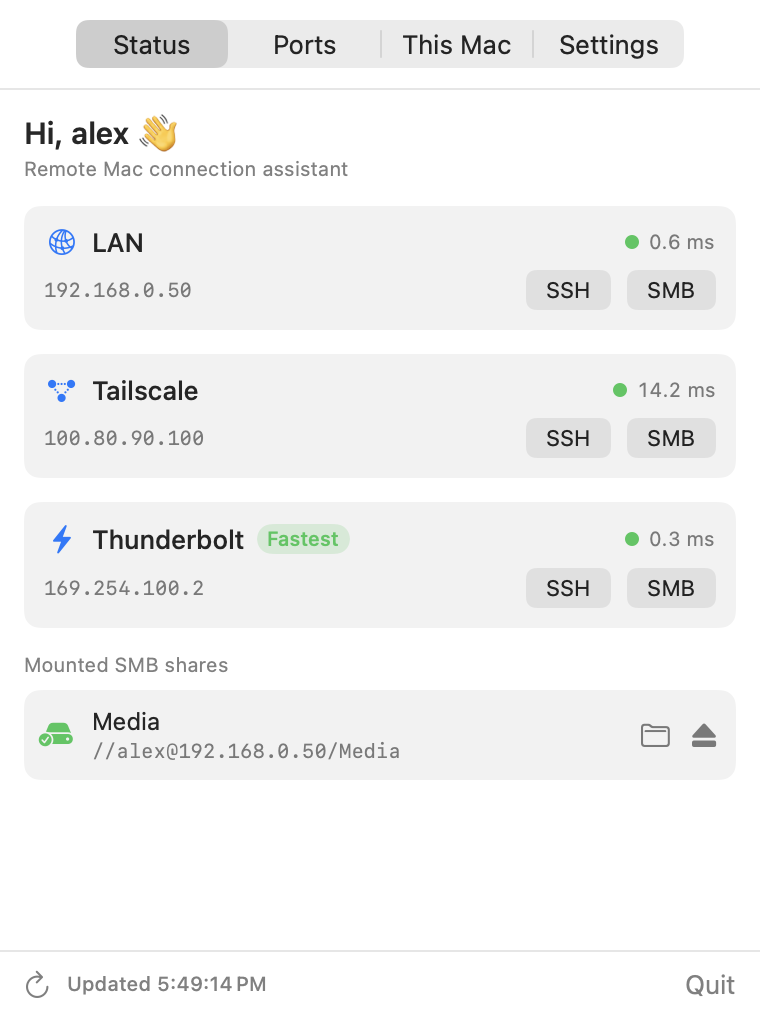
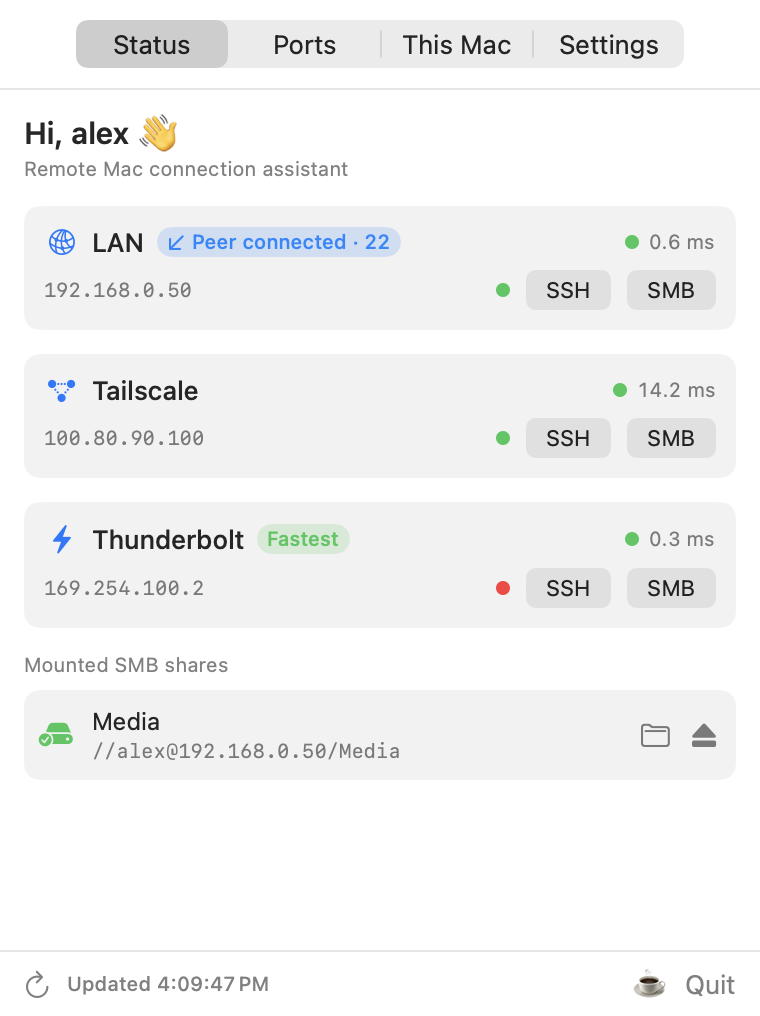
MiniLink 1.2.0 — auto-accept SSH host keys, per-route SSH status & inbound view
SSH: launch ssh with StrictHostKeyChecking=accept-new and a shared
HostKeyAlias (minilink-remote), so every route (LAN / Tailscale /
Thunderbolt) to the same Mac validates against one host key. No more
re-typing "yes" in Terminal after a DHCP IP change or when using a new
route. Also adds ConnectTimeout so a dead route fails fast.

Status: each route now shows whether SSH (port 22) is actually up
(green/red dot), plus a "peer connected" badge when the remote — or
anyone — has an inbound connection to this Mac, tagged to the route it
came in on. Inbound is detected from a single netstat pass that keeps
only foreign peers connected to a local listening port (so it does not
mistake our own outbound SSH for an inbound session).

Bump version to 1.2.0 (build 3); refresh the demo snapshot data to show
the new SSH dots and peer badge.

diff --git a/Sources/MiniLink/Monitor.swift b/Sources/MiniLink/Monitor.swift
@@ -84,6 +84,35 @@ func currentSMBMounts() async -> [MountedShare] {
     }
 }
 
+/// 检测「对方连着我」的入站连接。一次 netstat 同时拿本机监听端口和建立态连接，
+/// 只保留「对方连到本机某个监听端口」的连接——这样能区分「对方连我」与「我连对方」
+/// （我主动外连时本机端口是临时端口，不在监听集合里，会被排除）。
+/// 返回：对方 IP -> 该 IP 连到本机的监听端口列表（升序）。
+func establishedInbound() async -> [String: [Int]] {
+    let (_, out) = await runProcess("/usr/sbin/netstat", ["-an", "-p", "tcp"])
+    var listen = Set<Int>()
+    var estab: [(fip: String, lport: Int)] = []
+    for line in out.split(separator: "\n") where line.hasPrefix("tcp") {
+        let cols = line.split(separator: " ", omittingEmptySubsequences: true)
+        guard cols.count >= 4 else { continue }
+        let local = String(cols[3]) // 本机 ip.port，如 192.168.1.50.22 或 *.22
+        guard let d = local.lastIndex(of: "."),
+              let lport = Int(local[local.index(after: d)...]) else { continue }
+        if line.contains("LISTEN") {
+            listen.insert(lport)
+        } else if line.contains("ESTABLISHED"), cols.count >= 5 {
+            let foreign = String(cols[4]) // 对方 ip.port
+            guard let fd = foreign.lastIndex(of: ".") else { continue }
+            estab.append((String(foreign[..<fd]), lport))
+        }
+    }
+    var map: [String: Set<Int>] = [:]
+    for e in estab where listen.contains(e.lport) {
+        map[e.fip, default: []].insert(e.lport)
+    }
+    return map.mapValues { $0.sorted() }
+}
+
 // MARK: - mini 状态监测
 
 @MainActor
@@ -140,16 +169,23 @@ final class StatusMonitor {
     func refreshAll() async {
         guard !frozen else { return }
         let routes = settings.routes
+        // 与逐路由探测并发跑一次 netstat，拿到所有入站连接
+        async let inboundMap = establishedInbound()
         var newStatus: [UUID: RouteStatus] = [:]
         await withTaskGroup(of: (UUID, RouteStatus).self) { group in
             for r in routes {
                 group.addTask {
-                    let st = await pingHost(r.ip)
+                    async let ping = pingHost(r.ip)
+                    async let ssh = probePort(host: r.ip, port: 22) // SSH 是否通
+                    var st = await ping
+                    st.sshOpen = await ssh
                     return (r.id, st)
                 }
             }
             for await (id, st) in group { newStatus[id] = st }
         }
+        let inbound = await inboundMap
+        for r in routes { newStatus[r.id]?.inboundPorts = inbound[r.ip] ?? [] }
         routeStatus = newStatus
 
         if let host = bestRoute?.ip {

diff --git a/Sources/MiniLink/Views/MainView.swift b/Sources/MiniLink/Views/MainView.swift
@@ -139,6 +139,9 @@ struct StatusTab: View {
                         .background(Capsule().fill(Color.green.opacity(0.18)))
                         .foregroundStyle(.green)
                 }
+                if let ports = st?.inboundPorts, !ports.isEmpty {
+                    peerBadge(ports)
+                }
                 Spacer()
                 statusView(st)
             }
@@ -148,6 +151,7 @@ struct StatusTab: View {
                     .foregroundStyle(.secondary)
                     .textSelection(.enabled)
                 Spacer()
+                sshDot(st?.sshOpen)
                 Button("SSH") { sshTapped(route) }
                     .controlSize(.small)
                     .disabled(!reachable)
@@ -158,6 +162,33 @@ struct StatusTab: View {
         }
         .padding(10)
         .background(RoundedRectangle(cornerRadius: 8).fill(.quaternary.opacity(0.5)))
+    }
+
+    /// SSH（22 端口）可达指示点：绿=通、红=不通、灰=未探测。紧挨 SSH 按钮，作其状态注解。
+    private func sshDot(_ open: Bool?) -> some View {
+        let color: Color = open == nil ? Color.secondary.opacity(0.4) : (open! ? .green : .red)
+        let help = open == false ? settings.t("status.sshUnreachable") : settings.t("status.sshReachable")
+        return Circle()
+            .fill(color)
+            .frame(width: 7, height: 7)
+            .help(open == nil ? "" : help)
+    }
+
+    /// 「对方在连」徽章：对方（此路由 IP）正连着本机的监听端口。徽章显示端口号，
+    /// 悬停提示给出服务名。出现在哪条路由卡上，就说明对方走的是哪条路径。
+    private func peerBadge(_ ports: [Int]) -> some View {
+        let portsText = ports.map(String.init).joined(separator: ", ")
+        let services = ports.map { settings.portLabel($0) ?? "\($0)" }.joined(separator: ", ")
+        return HStack(spacing: 3) {
+            Image(systemName: "arrow.down.left")
+            Text("\(settings.t("status.peerConnected")) · \(portsText)")
+        }
+        .font(.caption2)
+        .padding(.horizontal, 5)
+        .padding(.vertical, 1)
+        .background(Capsule().fill(Color.blue.opacity(0.18)))
+        .foregroundStyle(.blue)
+        .help(settings.f("status.peerConnectedHelp", services))
     }
 
     private func statusView(_ st: RouteStatus?) -> some View {

diff --git a/Sources/MiniLink/L10n.swift b/Sources/MiniLink/L10n.swift
@@ -30,6 +30,10 @@ enum L10n {
         "status.eject": "Eject",
         "status.ejectFailed": "Eject failed: %@",
         "status.terminalFailed": "Could not open Terminal: %@",
+        "status.sshReachable": "SSH reachable (port 22 open)",
+        "status.sshUnreachable": "SSH not responding (port 22 closed)",
+        "status.peerConnected": "Peer connected",
+        "status.peerConnectedHelp": "The remote is connected to your: %@",
 
         "ports.title": "Remote port monitor",
         "ports.via": "via %@",
@@ -101,6 +105,10 @@ enum L10n {
         "status.eject": "弹出",
         "status.ejectFailed": "弹出失败：%@",
         "status.terminalFailed": "无法打开终端：%@",
+        "status.sshReachable": "SSH 可连（22 端口开放）",
+        "status.sshUnreachable": "SSH 未响应（22 端口不通）",
+        "status.peerConnected": "对方在连",
+        "status.peerConnectedHelp": "对方正连接你的：%@",
 
         "ports.title": "远程端口监测",
         "ports.via": "经由 %@",

diff --git a/Sources/MiniLink/Actions.swift b/Sources/MiniLink/Actions.swift
@@ -2,9 +2,16 @@ import AppKit
 
 @MainActor
 enum Actions {
+    /// 所有路由都是同一台远程 Mac，host key 其实相同。用固定 HostKeyAlias 让它们
+    /// 共用同一条 known_hosts 记录：接受一次后，无论走哪条路由、IP 怎么变都不再问。
+    private static let hostKeyAlias = "minilink-remote"
+
     /// 打开终端执行 ssh。返回错误信息，成功返回 nil。
     static func openSSH(username: String, ip: String) -> String? {
-        let cmd = "ssh \(username)@\(ip)"
+        // accept-new：首次/换 IP 自动信任、不再弹 yes（密钥“真的变了”仍会拦截告警）
+        // ConnectTimeout：掉线路由快速失败，不卡住
+        let opts = "-o StrictHostKeyChecking=accept-new -o ConnectTimeout=8 -o HostKeyAlias=\(hostKeyAlias)"
+        let cmd = "ssh \(opts) \(username)@\(ip)"
         let script = """
         tell application "Terminal"
             activate

diff --git a/Sources/MiniLink/Snapshot.swift b/Sources/MiniLink/Snapshot.swift
@@ -29,9 +29,9 @@ func runSnapshotModeIfNeeded() {
     let monitor = StatusMonitor(settings: settings, autostart: false)
     monitor.frozen = true
     monitor.routeStatus = [
-        lan.id: RouteStatus(reachable: true, latencyMs: 0.6),
-        ts.id: RouteStatus(reachable: true, latencyMs: 14.2),
-        tb.id: RouteStatus(reachable: true, latencyMs: 0.3),
+        lan.id: RouteStatus(reachable: true, latencyMs: 0.6, sshOpen: true, inboundPorts: [22]),
+        ts.id: RouteStatus(reachable: true, latencyMs: 14.2, sshOpen: true),
+        tb.id: RouteStatus(reachable: true, latencyMs: 0.3, sshOpen: false),
     ]
     monitor.portStates = [p22.id: .open, p445.id: .open, p5900.id: .closed, p11434.id: .open]
     monitor.mounts = [MountedShare(source: "//alex@192.168.0.50/Media", mountPoint: "/Volumes/Media")]

diff --git a/Sources/MiniLink/Models.swift b/Sources/MiniLink/Models.swift
@@ -16,6 +16,8 @@ struct PortEntry: Identifiable, Codable, Equatable, Sendable {
 struct RouteStatus: Equatable, Sendable {
     var reachable = false
     var latencyMs: Double?
+    var sshOpen: Bool? = nil       // 22 端口 TCP 是否可连；nil=未探测
+    var inboundPorts: [Int] = []   // 对方（此路由 IP）已连到本机的监听端口；非空=对方在连你
 }
 
 enum PortState: Sendable {
